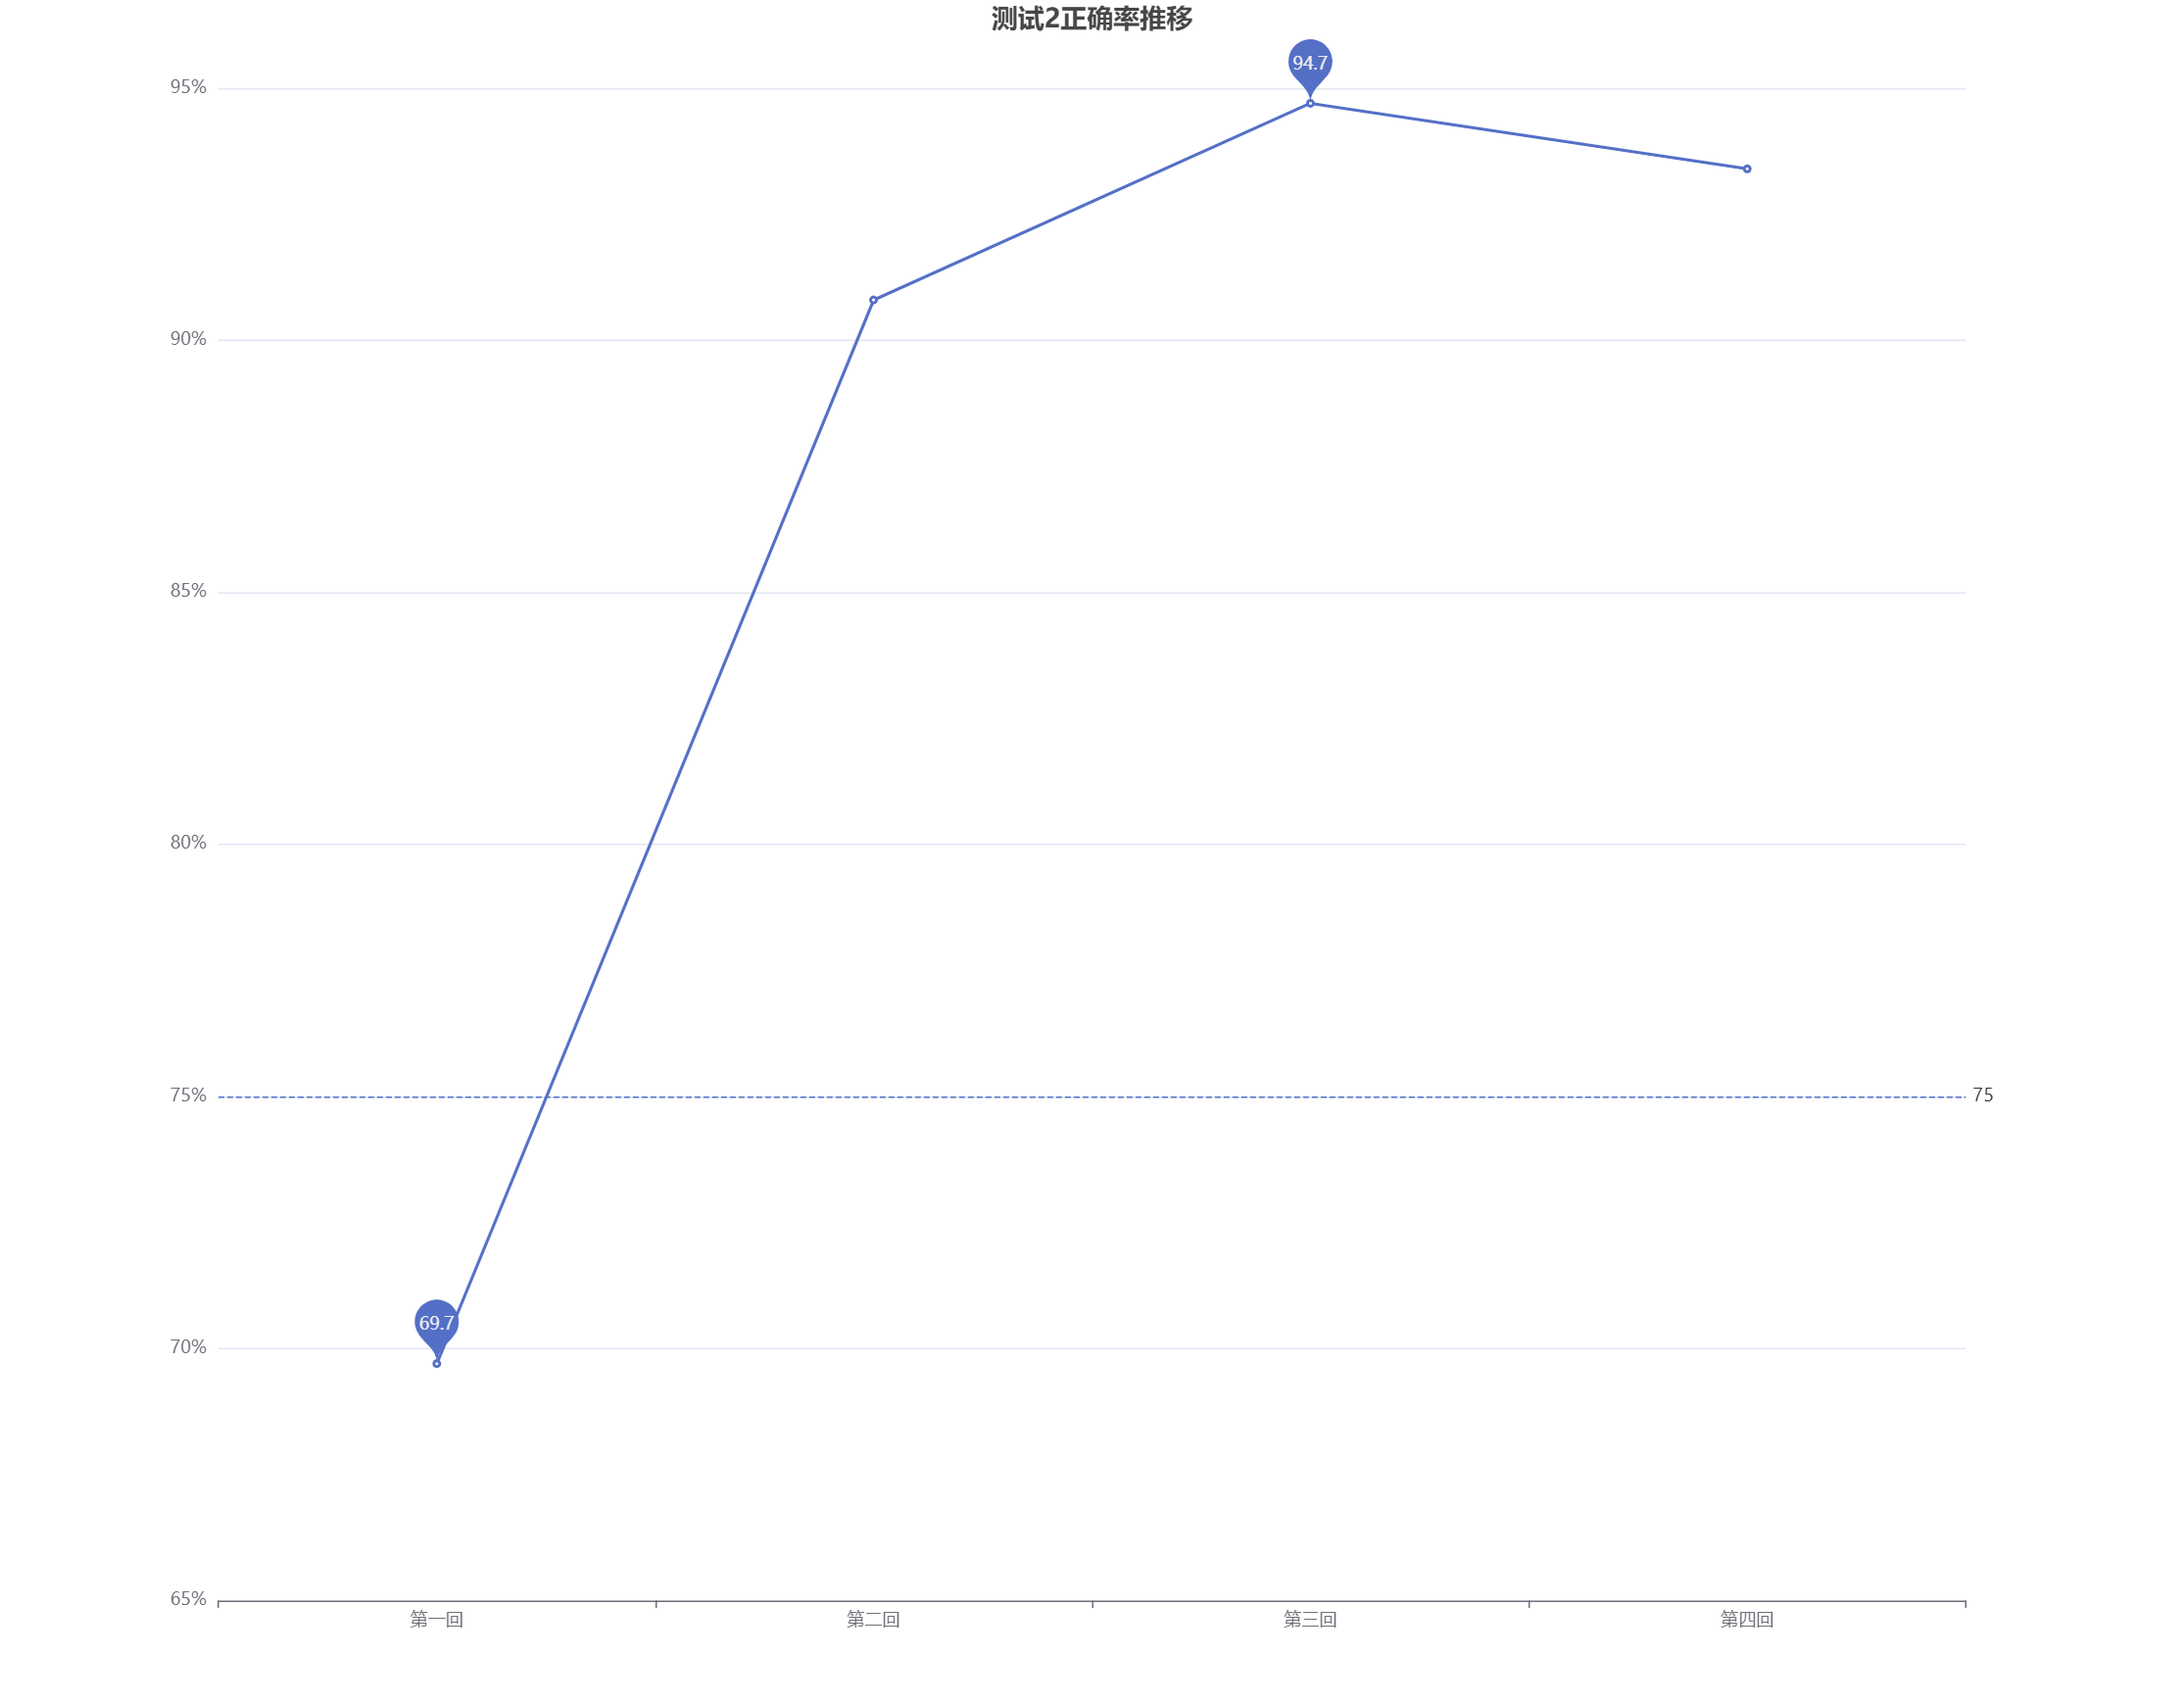
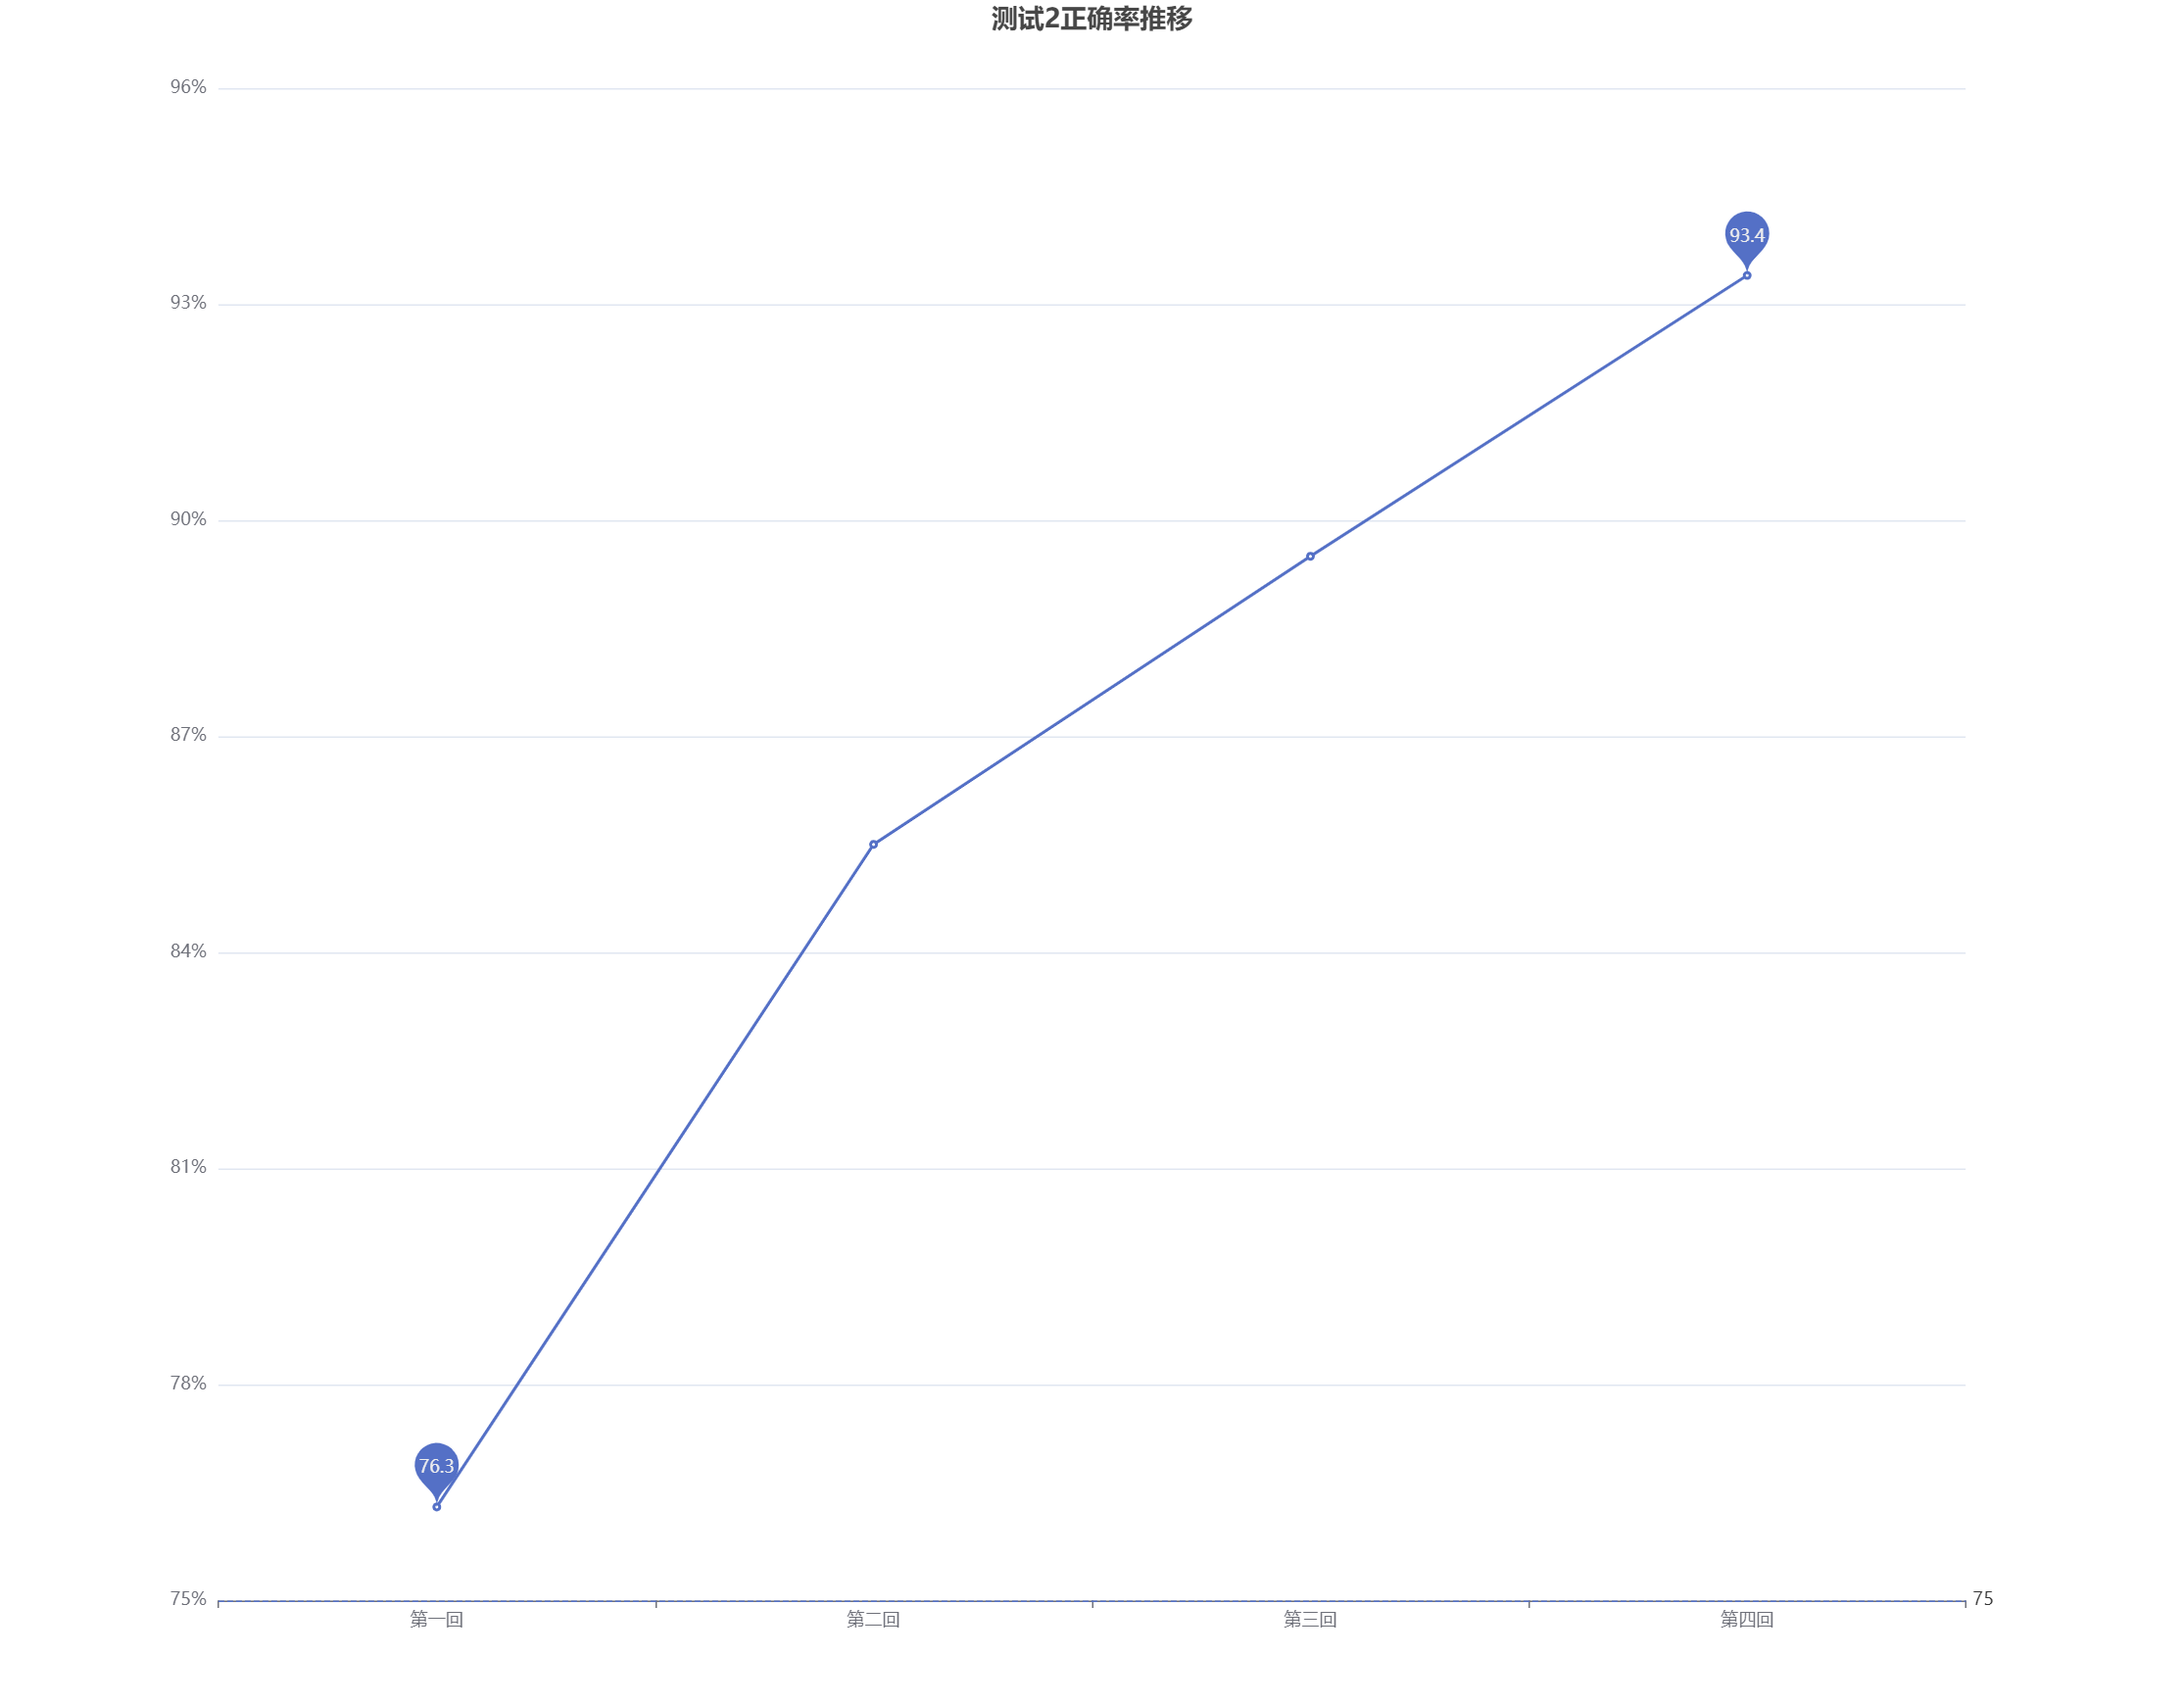
Courrect test result

diff --git a/src/rate.js b/src/rate.js
@@ -48,7 +48,7 @@ option = {
   },
   xAxis: {
     type: 'category',
-    data: ['第一回', '第二回', '第三回'],
+    data: ['第一回', '第二回', '第三回', '第四回'],
   },
   yAxis: {
     type: 'value',
@@ -59,7 +59,7 @@ option = {
   },
   series: [
     {
-      data: [76.3, 85.5, 89.5],
+      data: [76.3, 85.5, 89.5, 93.4],
       type: 'line',
       markLine: {
         symbol: ['none', 'none'],
@@ -81,14 +81,14 @@ option = {
 option = {
   title: {
     left: 'center',
-    text: '测试2正确率推移',
+    text: '测试3正确率推移',
   },
   tooltip: {
     trigger: 'axis',
   },
   xAxis: {
     type: 'category',
-    data: ['第一回', '第二回', '第三回', '第四回'],
+    data: ['第一回', '第二回', '第三回',],
   },
   yAxis: {
     type: 'value',
@@ -99,7 +99,7 @@ option = {
   },
   series: [
     {
-      data: [69.7, 90.8, 94.7, 93.4],
+      data: [69.7, 90.8, 94.7],
       type: 'line',
       markLine: {
         symbol: ['none', 'none'],
